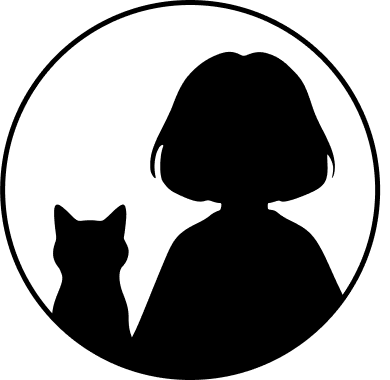
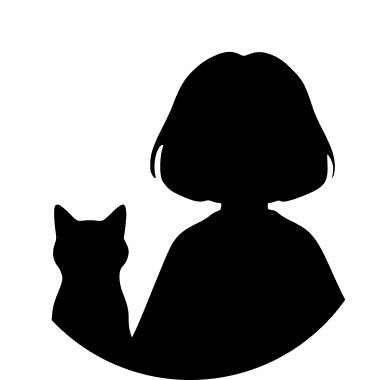
feat(app): polish — ad-wait loader fade + settings shimmer parity
- Ad-wait loader now fades in/out over 1s (showGeneralDialog + FadeTransition) so it doesn't pop mid ad-open.
- Puzzle timer resumes only after loader fade-out completes (1s post-dismiss), matching perceived pause.
- Footer label: "N mov" → "N moves" / "N jugadas" (full words, locale-aware).
- Settings shimmer/flash preview now uses the same white-overlay technique as the real piece (peak alpha 0.55 flash, 0→0.4→0 gradient shimmer) and matches the 350ms duration, so preview intensity/speed/angle equal in-game.
- Fix Stack collapse in settings avatar — overlays now fill the full 72×48 button instead of clipping to the icon.
- pubspec: remove two orphan asset entries (girl_cat_with_bg.svg, girl_cat_toggle.svg) that were no longer on disk or referenced.
- Refresh girl_cat_toggle.png and girl_cat_with_bottom.svg artwork.

diff --git a/lib/features/profile/profile_screen.dart b/lib/features/profile/profile_screen.dart
@@ -355,7 +355,7 @@ class _SettingsDialogState extends State<_SettingsDialog>
     super.initState();
     _shimmerPreviewController = AnimationController(
       vsync: this,
-      duration: const Duration(milliseconds: 850),
+      duration: const Duration(milliseconds: 350),
     );
   }
 
@@ -521,40 +521,48 @@ class _SettingsDialogState extends State<_SettingsDialog>
         builder: (_, __) {
           final t = selected ? _shimmerPreviewController.value : 0.0;
           final animating = selected && mode != ShimmerMode.off && t > 0;
-          BoxDecoration deco;
-          if (animating && mode == ShimmerMode.flash) {
-            // Whole-button pulse: lerp selectedBg → white → selectedBg.
-            final pulse =
-                (t < 0.5 ? t * 2 : (1 - t) * 2).clamp(0.0, 1.0);
-            deco = BoxDecoration(
-              color: Color.lerp(selectedBg, Colors.white, pulse * 0.9),
-              borderRadius: BorderRadius.circular(14),
-            );
-          } else if (animating && mode == ShimmerMode.shimmer) {
-            // Diagonal band across the whole pill.
-            deco = BoxDecoration(
-              borderRadius: BorderRadius.circular(14),
-              gradient: LinearGradient(
-                begin: Alignment(-1.0 + 3.0 * t, -1.0 + 3.0 * t),
-                end: Alignment(-0.5 + 3.0 * t, -0.5 + 3.0 * t),
-                colors: [selectedBg, Colors.white, selectedBg],
-              ),
-            );
-          } else {
-            deco = BoxDecoration(
-              color: selected ? selectedBg : Colors.grey.shade200,
-              borderRadius: BorderRadius.circular(14),
-            );
-          }
           return Container(
             width: 72,
             height: 48,
-            decoration: deco,
-            alignment: Alignment.center,
-            child: Icon(
-              icon,
-              size: 22,
-              color: selected ? Colors.white : Colors.grey.shade600,
+            decoration: BoxDecoration(
+              color: selected ? selectedBg : Colors.grey.shade200,
+              borderRadius: BorderRadius.circular(14),
+            ),
+            child: Stack(
+              fit: StackFit.expand,
+              children: [
+                if (animating && mode == ShimmerMode.flash)
+                  Container(
+                    decoration: BoxDecoration(
+                      color: Colors.white.withValues(
+                        alpha: ((t < 0.5 ? t * 2 : (1 - t) * 2).clamp(0.0, 1.0)) * 0.55,
+                      ),
+                      borderRadius: BorderRadius.circular(14),
+                    ),
+                  ),
+                if (animating && mode == ShimmerMode.shimmer)
+                  Container(
+                    decoration: BoxDecoration(
+                      borderRadius: BorderRadius.circular(14),
+                      gradient: LinearGradient(
+                        begin: Alignment(-1.0 + 3.0 * t, -1.0 + 3.0 * t),
+                        end: Alignment(-0.5 + 3.0 * t, -0.5 + 3.0 * t),
+                        colors: [
+                          Colors.white.withValues(alpha: 0),
+                          Colors.white.withValues(alpha: 0.4),
+                          Colors.white.withValues(alpha: 0),
+                        ],
+                      ),
+                    ),
+                  ),
+                Center(
+                  child: Icon(
+                    icon,
+                    size: 22,
+                    color: selected ? Colors.white : Colors.grey.shade600,
+                  ),
+                ),
+              ],
             ),
           );
         },

diff --git a/lib/features/puzzle/puzzle_screen.dart b/lib/features/puzzle/puzzle_screen.dart
@@ -341,10 +341,28 @@ class _PuzzleScreenState extends State<PuzzleScreen>
       ),
     );
     if (confirm != true || !mounted) return;
+    _stopwatch.stop();
+    showGeneralDialog<void>(
+      context: context,
+      barrierDismissible: false,
+      barrierColor: Colors.black54,
+      transitionDuration: const Duration(seconds: 1),
+      pageBuilder: (_, __, ___) => const Center(
+        child: ClipOval(
+          child: SizedBox(width: 95, height: 95, child: _LoaderGif()),
+        ),
+      ),
+      transitionBuilder: (_, anim, __, child) => FadeTransition(opacity: anim, child: child),
+    );
     AdService.showInterstitial(
       onAdDismissed: () {
         if (!mounted) return;
+        Navigator.of(context, rootNavigator: true).pop();
         setState(() => _referenceUsesLeft += _referenceAdRefill);
+        Future.delayed(const Duration(seconds: 1), () {
+          if (!mounted) return;
+          _stopwatch.start();
+        });
       },
     );
   }
@@ -985,7 +1003,7 @@ class _PuzzleScreenState extends State<PuzzleScreen>
                                         child: Icon(PhosphorIconsBold.pause, size: 12, color: Colors.white70),
                                       ),
                                     Text(
-                                      '${m.toString().padLeft(2, '0')}:${s.toString().padLeft(2, '0')}  ·  $moves mov',
+                                      '${m.toString().padLeft(2, '0')}:${s.toString().padLeft(2, '0')}  ·  $moves ${langCode == 'es' ? 'jugadas' : 'moves'}',
                                       style: GoogleFonts.plusJakartaSans(
                                         fontSize: 12, fontWeight: FontWeight.w500,
                                         color: Colors.white,
